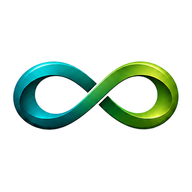
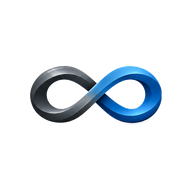
Apply the new Infinity Services brand package
- New master logo in the navbar and dark-mode logo in the footer
- New favicon, apple touch icon, and app icons; theme color #101d2e
- Brand colors per the package: royal blue #3470bc, deep navy #101d2e
- InfiniTrack and InfiniHerd logos fill the project image spots
- Open Graph / link preview image and tags

Claude-Session: https://claude.ai/code/session_01URj2AFM1wStXQ9gXuNY2Kv

Changed region(s): [[0.0625, 0.3125, 0.9375, 0.6875]]

diff --git a/src/index.html b/src/index.html
@@ -6,10 +6,19 @@
   <meta name="description" content="I build custom web and desktop apps for small businesses: tools that connect your data, cut out busywork, and help your business run smoother.">
   <base href="/">
   <meta name="viewport" content="width=device-width, initial-scale=1">
-  <link rel="icon" type="image/x-icon" href="favicon.ico">
+  <meta property="og:type" content="website">
+  <meta property="og:site_name" content="Infinity Services">
+  <meta property="og:title" content="Infinity Services | Custom Software for Small Businesses">
+  <meta property="og:description" content="I build custom web and desktop apps for small businesses: tools that connect your data, cut out busywork, and help your business run smoother.">
+  <meta property="og:url" content="https://infinityservicesmn.com/">
+  <meta property="og:image" content="https://infinityservicesmn.com/brand/og-image.png">
+  <meta property="og:image:width" content="1200">
+  <meta property="og:image:height" content="630">
+  <meta name="twitter:card" content="summary_large_image">
+  <link rel="icon" href="favicon.ico" sizes="any">
   <link rel="apple-touch-icon" href="apple-touch-icon.png">
   <link rel="manifest" href="site.webmanifest">
-  <meta name="theme-color" content="#336CBB">
+  <meta name="theme-color" content="#101D2E">
   <link rel="preconnect" href="https://fonts.googleapis.com">
   <link rel="preconnect" href="https://fonts.gstatic.com" crossorigin>
   <link href="https://fonts.googleapis.com/css2?family=Inter:wght@300;400;500;600;700&display=swap" rel="stylesheet">

diff --git a/src/app/shared/photo/photo.component.ts b/src/app/shared/photo/photo.component.ts
@@ -9,7 +9,7 @@ import { Component, input, signal } from '@angular/core';
   selector: 'app-photo',
   standalone: true,
   template: `
-    <div class="photo" [class.loaded]="loaded()" [style.aspect-ratio]="ratio()">
+    <div class="photo" [class.loaded]="loaded()" [class.contain]="fit() === 'contain'" [style.aspect-ratio]="ratio()">
       @if (!failed()) {
         <img
           [src]="src()"
@@ -51,12 +51,26 @@ import { Component, input, signal } from '@angular/core';
     .loaded img {
       opacity: 1;
     }
+
+    /* Logos and artwork: show the whole image on a plain panel. */
+    .contain {
+      background: #f5f5f5; /* matches the InfiniHerd badge artwork */
+      border: 1px solid var(--color-border);
+      box-shadow: var(--shadow-sm);
+    }
+
+    .contain img {
+      object-fit: contain;
+      padding: 8%;
+    }
   `,
 })
 export class PhotoComponent {
   readonly src = input.required<string>();
   readonly alt = input('');
   readonly ratio = input('4 / 3');
+  /** 'cover' crops to fill (photos); 'contain' shows the whole image (logos). */
+  readonly fit = input<'cover' | 'contain'>('cover');
 
   protected readonly loaded = signal(false);
   protected readonly failed = signal(false);

diff --git a/src/app/shared/photos.ts b/src/app/shared/photos.ts
@@ -10,6 +10,6 @@ export const PHOTOS = {
   aboutWorkspace: { src: 'images/about-workspace.jpg', alt: 'Writing code on a laptop' },
   servicesApps: { src: 'images/services-apps.jpg', alt: 'A small business owner using an app at the counter' },
   servicesSupport: { src: 'images/services-support.jpg', alt: 'Talking through a project over coffee' },
-  infinitrack: { src: 'images/infinitrack-screenshot.png', alt: 'InfiniTrack inventory dashboard' },
-  infiniherd: { src: 'images/infiniherd-screenshot.png', alt: 'InfiniHerd herd records screen' },
+  infinitrack: { src: 'images/infinitrack-logo.webp', alt: 'InfiniTrack logo' },
+  infiniherd: { src: 'images/infiniherd-logo.webp', alt: 'InfiniHerd logo' },
 } as const;

diff --git a/src/styles.scss b/src/styles.scss
@@ -1,10 +1,10 @@
 :root {
   color-scheme: light;
 
-  /* Brand colors from the original Infinity Services logo. */
-  --color-navy: #2e3135;           /* dark charcoal: footer and CTA bands */
-  --color-primary: #336cbb;        /* logo blue */
-  --color-primary-dark: #24528f;
+  /* Brand colors from the 2026 Infinity Services brand package. */
+  --color-navy: #101d2e;           /* deep navy: footer and dark bands */
+  --color-primary: #3470bc;        /* royal blue */
+  --color-primary-dark: #24538f;
   --color-primary-light: #dde7f4;
   --color-accent: #545454;         /* logo charcoal */
   --color-accent-dark: #3d3d3d;

diff --git a/src/app/pages/products/products.component.html b/src/app/pages/products/products.component.html
@@ -9,7 +9,7 @@
   <div class="container">
     @for (project of projects; track project.name; let odd = $odd) {
       <article class="project" [class.reverse]="odd">
-        <app-photo [src]="project.photo.src" [alt]="project.photo.alt" ratio="16 / 10" />
+        <app-photo [src]="project.photo.src" [alt]="project.photo.alt" ratio="16 / 10" fit="contain" />
         <div class="project-copy">
           <div class="project-title">
             <h2>{{ project.name }}</h2>

diff --git a/src/app/pages/home/home.component.html b/src/app/pages/home/home.component.html
@@ -71,7 +71,7 @@
     <div class="projects-grid">
       @for (project of projects; track project.name) {
         <article class="project-card">
-          <app-photo [src]="project.photo.src" [alt]="project.photo.alt" ratio="16 / 10" />
+          <app-photo [src]="project.photo.src" [alt]="project.photo.alt" ratio="16 / 10" fit="contain" />
           <div class="project-body">
             <div class="project-title">
               <h3>{{ project.name }}</h3>

diff --git a/src/app/shared/navbar/navbar.component.html b/src/app/shared/navbar/navbar.component.html
@@ -1,7 +1,7 @@
 <header class="navbar">
   <div class="container navbar-inner">
     <a routerLink="/" class="brand" aria-label="Infinity Services LLC home" (click)="closeMobileMenu()">
-      <img src="brand/logo.webp" alt="Infinity Services LLC" width="480" height="190" />
+      <img src="brand/logo.webp" alt="Infinity Services LLC" width="600" height="277" />
     </a>
 
     <nav class="nav-links" [class.open]="mobileMenuOpen()">

diff --git a/src/app/shared/footer/footer.component.html b/src/app/shared/footer/footer.component.html
@@ -1,7 +1,7 @@
 <footer class="footer">
   <div class="container footer-inner">
     <div class="footer-brand">
-      <img src="brand/logo-on-dark.webp" alt="Infinity Services LLC" width="480" height="190" />
+      <img src="brand/logo-on-dark.webp" alt="Infinity Services LLC" width="600" height="277" />
       <p>Custom software for small businesses.<br />Based in Cannon Falls, Minnesota.</p>
     </div>
 

diff --git a/src/app/shared/navbar/navbar.component.scss b/src/app/shared/navbar/navbar.component.scss
@@ -19,7 +19,7 @@
 
   img {
     display: block;
-    height: 64px;
+    height: 68px;
     width: auto;
   }
 }

diff --git a/src/app/shared/footer/footer.component.scss b/src/app/shared/footer/footer.component.scss
@@ -17,7 +17,7 @@
 
   img {
     display: block;
-    height: 72px;
+    height: 88px;
     width: auto;
   }
 
